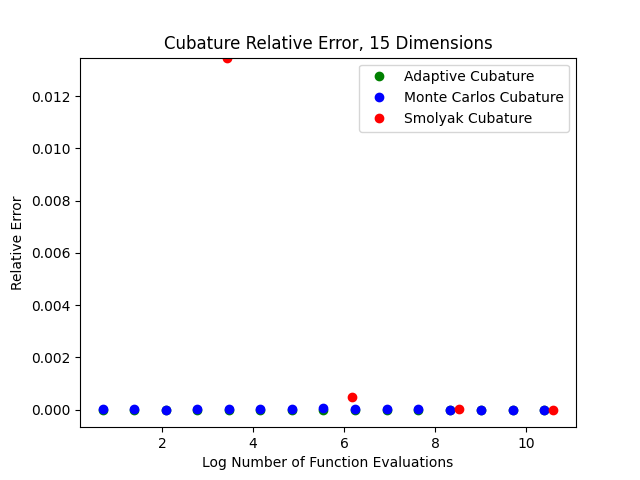
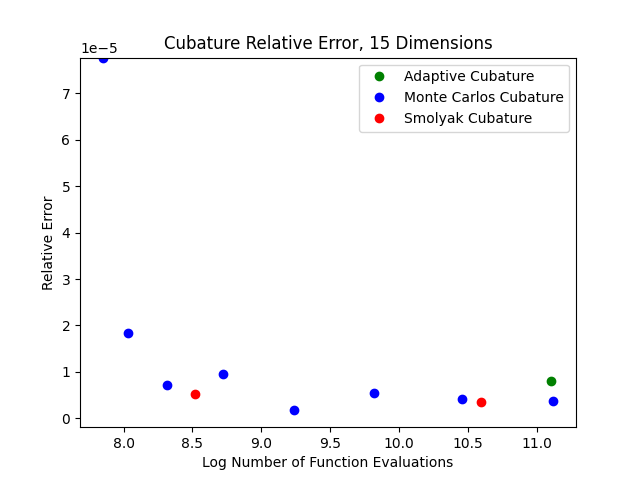
completed code

diff --git a/plot_error_vs_evals.py b/plot_error_vs_evals.py
@@ -65,15 +65,17 @@ def test_cubature(f, d, level, ground_truth):
     print(f"mc_count:{mc_points}")
     print("finish mc")
 
-    return abs((cuba - ground_truth)/ground_truth), abs((mc - ground_truth)/ground_truth),  cuba_points,mc_points
+    return abs((cuba - ground_truth)/ground_truth), abs((mc - ground_truth)/ground_truth),  cuba_points, mc_points
 def test_cubatures(func, d, levels, runs):
     smolyak_integral_steps, smolyak_function = read_smolyak(d)
 
     smolyak_rel_error = {}#[0 for i in range(len(smolyak_integral_steps))]
     # smolyak_points = [0 for i in range(len(smolyak_integral_steps))]
 
-    cuba_rel_error = [0 for i in range(len(levels))]
-    mc_rel_error = [0 for i in range(len(levels))]
+    cuba_rel_error = {}
+    c_freq = {}
+    mc_rel_error = {}
+    mc_freq ={}
 
     cuba_points, mc_points, smolyak_points = [], [], []
 
@@ -95,16 +97,27 @@ def test_cubatures(func, d, levels, runs):
             level = levels[i]
             cuba_error, mc_error, cuba_points, mc_points = test_cubature(f,d,level,ground_truth)
 
-            cuba_rel_error[i] += cuba_error
-            mc_rel_error[i] += mc_error
+            cuba_rel_error.setdefault(cuba_points, 0)
+            c_freq.setdefault(cuba_points, 0)
+            cuba_rel_error[cuba_points] += cuba_error
+            c_freq[cuba_points] += 1
+
+            mc_rel_error.setdefault(mc_points, 0)
+            mc_freq.setdefault(mc_points, 0)
+            mc_rel_error[mc_points] += mc_error
+            mc_freq[mc_points] += 1
+
         for i in range(len(smolyak_results)):
             level, integral, steps = smolyak_results[i]
             smolyak_rel_error.setdefault(steps,0)
             smolyak_rel_error[steps] += abs((integral - ground_truth)/ground_truth) #[i] += abs((integral - ground_truth)/ground_truth)
             # smolyak_points[i] = steps
-    cuba_rel_error = [each/runs for each in cuba_rel_error]
+    for key in cuba_rel_error.keys():
+        cuba_rel_error[key] /= c_freq[key]
 
-    mc_rel_error = [each/runs for each in mc_rel_error]
+    for key in mc_rel_error.keys():
+        mc_rel_error[key] /= mc_freq[key]
+
     for key in smolyak_rel_error.keys():
         smolyak_rel_error[key] /= runs
 
@@ -114,27 +127,28 @@ def get_smolyak_y(d,l,func):
     #get from csv
     return 0
 def plot(d, func_name, cuba, mc, smolyak, levels):
-    def get_smolyak_int_points(smolyak):
-        smolyak_integrals = []
-        smolyak_points = []
-        for key in sorted(smolyak.keys()):
-            smolyak_integrals.append(smolyak[key])
-            smolyak_points.append(key)
-        return smolyak_integrals, smolyak_points
+    def get_rel_error_points(rel_error_dict):
+        rel_errors = []
+        points = []
+        for key in sorted(rel_error_dict.keys()):
+            rel_errors.append(rel_error_dict[key])
+            points.append(key)
+        return rel_errors, points
 
-    cuba_points = [cuba_level_to_points(level) for level in levels]
-    mc_points = [mc_level_to_points(level) for level in levels]
-    smolyak_integrals, smolyak_points = get_smolyak_int_points(smolyak)
+    cuba_rel_error, cuba_points = get_rel_error_points(cuba)
+    mc_rel_error, mc_points = get_rel_error_points(mc)
+    smolyak_rel_error, smolyak_points = get_rel_error_points(smolyak)
 
     # smolyak_points = [smolyak_level_to_points(level) for level in levels]
 
     x_1 = np.log(cuba_points)
     x_2 = np.log(mc_points)
     x_3 = np.log(smolyak_points)
+    x_3 = [each for each in x_3 if each >= min(min(x_1), min(x_2))]
 
-    y_1 = cuba
-    y_2 = mc
-    y_3 = smolyak_integrals
+    y_1 = cuba_rel_error
+    y_2 = mc_rel_error
+    y_3 = smolyak_rel_error[- len(x_3):]
 
     # y_1 = np.log(cuba)
     # y_2 = np.log(mc)
